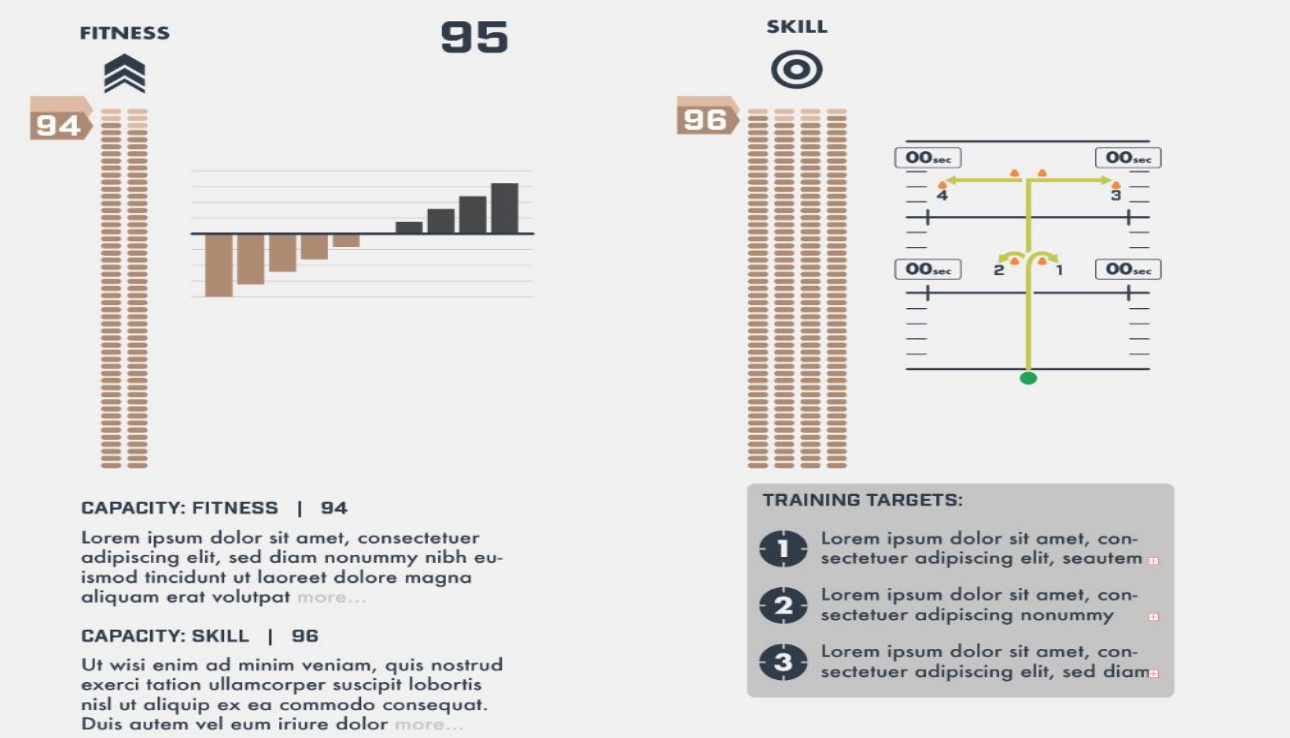
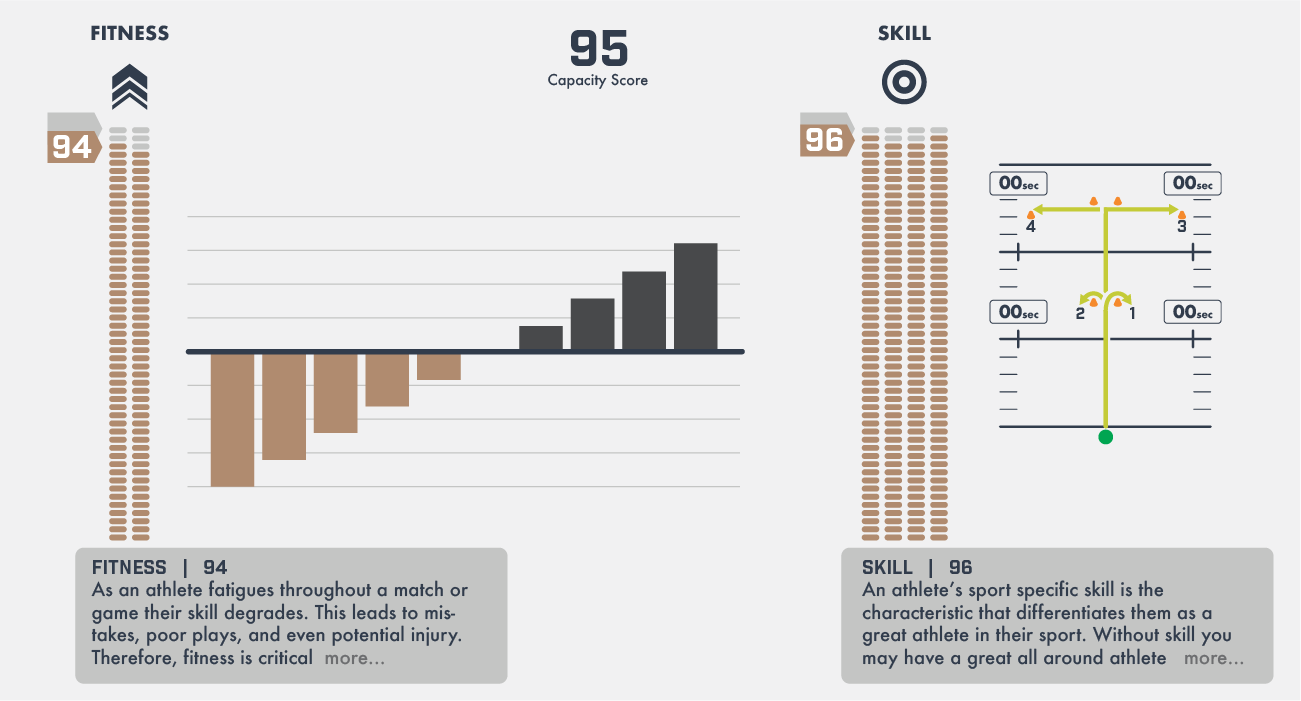
cosemtic-updates
changes to prep for demo to U Utah. all cosmetic, only functional is changing the live tab to not show summary, but its own thing

diff --git a/src/www/css/sass.min.css b/src/www/css/sass.min.css
@@ -1,2 +1,2 @@
-@font-face{font-family:'axia-regular';src:url("fonts/AxiaStencilBlack-Regular.ttf") format("truetype")}.ui.card img{width:150px !important;height:150px !important}.ui.search .results{visibility:hidden !important}html,body{min-width:1100px}body{background-color:#f1f1f1}.left-centered-content,.ui.vertical.menu .item .sidebar-item .sidebar-image{display:flex;justify-content:flex-start;align-items:center}.ui.vertical.menu{width:100% !important;background-color:#f1f1f1;position:sticky;top:200px}.ui.vertical.menu .item:before{width:0}.ui.vertical.menu .item:hover{background-color:#f1f1f1 !important}.ui.vertical.menu .item .sidebar-item{height:45px}.ui.vertical.menu .item .sidebar-item:hover{background-color:rgba(157,163,171,0.101961)}.ui.vertical.menu .item .sidebar-item .sidebar-image{width:45px;height:45px;background-color:#f1f1f1;border-radius:0% 50% 50% 0%}.ui.vertical.menu .item .sidebar-item .sidebar-image .icon{width:35px;margin-right:17.5px}.ui.vertical.menu .sidebar-active .sidebar-item{color:#fff !important;border-radius:100px 30px 30px 100px !important;background-color:#F66733 !important}.centered-content,.stat,.position-card .position-name p{display:flex;justify-content:center;align-items:center}.player-card{width:100px;height:150px;float:left;margin:5px}.player-card .player-image{height:100px;background-size:cover;border-radius:50px;background-position:center;background-repeat:no-repeat;box-shadow:0px 0px 1px 0px}.player-card .player-image:hover{cursor:pointer;box-shadow:0px 0px 0px 3px #F66733}.player-card .first-name{text-align:center;font-size:10px;height:12px}.player-card .last-name{text-align:center;font-weight:bold;height:16px}.player-card .player-number{text-align:center;font-size:10px;height:12px;color:#9da3ab}.stat{height:40px;background-color:#fff;width:40px;font-size:20px;border-radius:50%;float:right;margin-top:60px;color:#323c4c;font-weight:bold;box-shadow:0px 0px 1px 0px}.position-card{width:100px;height:150px;float:left;margin:5px;position:relative}.position-card:hover{cursor:pointer}.position-card:hover .position-name p{box-shadow:0px 0px 0px 3px #F66733}.position-card .position-name{height:100px;font-size:50px;color:#F66733}.position-card .position-name p{margin:0;width:100%;height:100px;position:absolute;align-items:flex-start;border-radius:100px;line-height:100px;z-index:-1;font-size:80%;box-shadow:0px 0px 2px 0px;background:#fff}.position-card .position-desc{text-align:center;font-weight:bold;height:24px;line-height:24px}#grid-page-wrapper>.header{background-color:#F66733;position:sticky;top:0;z-index:9999}.overwrite-semantic-card,.ui.vertical.menu,.ui.vertical.menu .item,.ui.vertical.menu .item .sidebar-item,.ui.card{box-shadow:none !important;border:none !important}.overwrite-semantic-card:first-child,.ui.vertical.menu:first-child,.ui.vertical.menu .item:first-child,.ui.vertical.menu .item .sidebar-item:first-child,.ui.card:first-child{border-radius:0}.ui.card{height:200px;width:100% !important;padding:20px;background-color:#F66733 !important}.ui.card .image{border-radius:20px !important;background-size:cover !important;background-position:center !important;background-repeat:no-repeat !important}.ui.card .content{border:none !important}.ui.card .content .header{color:#fff !important;font-size:30px !important}.ui.card .content .meta{color:#fff !important;font-size:18px !important;padding-top:10px !important}.ui.breadcrumb a.section{color:#fff}.user-card{position:absolute;top:5px;right:15px}.header #logo-card .content{padding:0 20px}.header #logo-card .content .header{margin-top:0}.header .filters{display:flex;justify-content:center;align-items:center}.header .filters #menu .icon{color:#fff}.header .filters #menu .section{padding:3px 7px 1px 7px;border-radius:10px;line-height:1.4}.header .filters #menu .section.active{background:#B94A12}.header .filters .logo img{width:auto;height:65px}.header .user .user-card{padding:10px}.header .user .user-card .sub.header{background:#fff;padding:3px 13px;font-weight:bold;color:#F66733;border-radius:2px}.header .user .user-card .button{border:2px solid #fff;padding:5px 15px;color:#fff;font-weight:bolder;border-radius:10px}.header .user .user-card .button:hover{color:#F66733}.logo img:hover{cursor:pointer}.levels #ordering{float:left}.levels #ordering .sort.icon{color:#fff;font-size:120%}.levels #ordering .reorder-list{text-transform:capitalize;padding:3px 7px 1px 7px !important;border-radius:10px;line-height:1.4}.levels #ordering .reorder-list.hidden{display:none !important}.levels #ordering .reorder-list.active{background:#B94A12}.levels #menu{float:right}.main{padding:9px 15px}.main .player-content{background-size:contain;background-position:top;background-repeat:no-repeat}.explosive_page_wrapper>div{height:100%;width:100%}.player-content .assessment_reports-container{display:flex;justify-content:center}.player-content .assessment_reports-container .assessment_report-toggler{padding:0 15px;cursor:pointer;border-right:2px solid black}.player-content .assessment_reports-container .assessment_report-toggler:last-of-type{border-right:none}.reach_page_wrapper>div{height:100%;width:100%}.player-content .assessment_reports-container{display:flex;justify-content:center}.player-content .assessment_reports-container .assessment_report-toggler{padding:0 15px;cursor:pointer;border-right:2px solid black}.player-content .assessment_reports-container .assessment_report-toggler:last-of-type{border-right:none}.stats-progress-widget{overflow:hidden}.stats-progress-widget .ui.progress .bar{height:2.35em}.stats-progress-widget .chart_title{color:#2E3D49;font-size:20px;font-weight:bolder;line-height:50px;text-align:center;text-transform:uppercase;font-family:"axia-regular",sans-serif}.stats-progress-widget .chart_icon{display:flex;justify-content:center;align-items:center}.stats-progress-widget .chart_icon .icon{height:100%}.stats-progress-widget .chart_wrapper{position:relative;width:100%;height:100%;display:flex;justify-content:center;align-items:center;flex-direction:column}.stats-progress-widget .chart_wrapper .chart_container{position:relative;width:450px;transform:rotate(-90deg)}.stats-progress-widget .progress{margin-bottom:10px}.stats-progress-widget .steps{position:absolute;display:flex;z-index:1;pointer-events:none;bottom:-10px;top:-10px;left:-5px;right:0px}.stats-progress-widget .steps .bar_step{width:2%;margin-right:2%;background:#f1f1f1;height:100%}.stats-progress-widget [data-index]{cursor:pointer}.stats-progress-widget .chart_total{position:absolute;left:0;top:-60px;font-weight:bolder;font-size:25px;background:#444444;color:white;height:40px;display:flex;justify-content:center;align-items:center;width:70px;left:0;z-index:10000;transition:1s all ease;border-radius:3px;transform:rotate(90deg)}.stats-progress-widget .chart_total:after{width:0;height:0;border-top:20px solid transparent;border-left:15px solid #444444;border-bottom:20px solid transparent;content:"";position:absolute;left:calc(100% - 1px)}.body_chart{min-height:600px;max-height:650px;min-height:600px;position:relative}.body_chart .body_stat{position:relative}.body_chart .body_stat:after{content:"";display:block;width:100%;height:2px;position:absolute;border:2px dashed #B4C2D1;opacity:0;-webkit-transition:all 500ms ease-out;-moz-transition:all 500ms ease-out;-o-transition:all 500ms ease-out}.body_chart .body_stat.stat_active:after,.body_chart .body_stat.stat_focus:after{opacity:1;border:2px dashed #F66733;animation:border-pulsate 2.5s infinite}.body_chart .body_stat.stat_left:after{right:-110%;top:77%;transform:rotate(7deg)}.body_chart .body_stat.stat_right:after{right:110%;top:77%;transform:rotate(-7deg)}.body_chart .body_stat.stat_bottom.stat_left:after{top:33%;transform:rotate(-7deg)}.body_chart .body_stat.stat_bottom.stat_right:after{top:33%;transform:rotate(7deg)}.body_chart .body_stat.stat_center:after{top:50%;transform:rotate(0deg)}.body_chart .body_stat.stat_upper.stat_right:after{right:105%;top:106%;transform:rotate(-35deg)}.body_chart .body_stat.stat_upper.stat_left:after{right:-105%;top:106%;transform:rotate(35deg)}.body_chart .title{color:#323c4c;font-size:20px;text-align:center;display:flex;justify-content:center;align-items:top}.body_chart .total{color:#323c4c;font-size:50px;font-weight:bolder;line-height:50px;text-align:center;font-family:"axia-regular",sans-serif}.body_chart .stat_label{position:absolute;font-size:16px;line-height:16px;padding-top:5px;left:0;right:0;margin:auto;color:#2568B0;opacity:0;-webkit-transition:all 500ms ease-out;-moz-transition:all 500ms ease-out;-o-transition:all 500ms ease-out}.body_chart [data-part]{cursor:pointer;animation:border-pulsate 2.5s infinite}.body_chart .stat_value{text-align:center;background:#FEFCFD;border:2px solid #B4C2D1;border-radius:4px;color:#2568B0;font-size:40px;font-weight:bolder;line-height:50px;cursor:pointer;-webkit-transition:all 500ms ease-out;-moz-transition:all 500ms ease-out;-o-transition:all 500ms ease-out}.body_chart .stat_value.stat_active,.body_chart .stat_value.stat_focus{border:2px solid #F66733;color:#F66733;animation:border-pulsate 2.5s infinite}.body_chart .background_body svg{height:100%;width:100%}.body_chart .background_body svg path{transition:all 0.5s}@keyframes border-pulsate{0%{border-color:#F66733}50%{border-color:#F66733}75%{border-color:#B4C2D1}100%{border-color:#F66733}}.ui.card.text-card{border:1px solid transparent !important;border-radius:8px;height:100%;padding:20px;width:100%}.ui.card.text-card .header{border-bottom:1px solid #323c4c;color:#323c4c;font-family:"axia-regular",sans-serif;font-size:18px;font-weight:bold;margin-bottom:10px;padding-bottom:5px;text-transform:uppercase}.ui.card.text-card .header--score{border-left:1px solid #323c4c;color:#286aaf;margin-left:10px;padding-left:10px}.ui.card.text-card .description{color:#323c4c;font-size:16px;font-weight:bold;line-height:1.4}.strength_card{grid-area:"strength_card"}.details_card{grid-area:"details_card"}.power_card{grid-area:"power_card"}.file-downloader{position:absolute;bottom:0;right:20px;margin:10px}.file-downloader .export-view-button{font-size:10px;border:2px solid #fff;padding:5px;color:#fff;font-weight:bolder;border-radius:0 10px 10px 0;display:block;position:relative;border-left:none}.file-downloader .export-view-button:hover{background:#B94A12}.file-downloader .export-view-button .button-content{display:flex;flex-direction:column;justify-content:center;text-align:center;min-width:170px;border-left-color:transparent}.file-downloader .export-view-button .button-content .title{font-size:10px;line-height:10px}.file-downloader .export-view-button .button-content .subtitle{line-height:10px}.file-downloader .export-view-button .button-content .name{background:#c5c5c5;color:#313c4c;margin-top:5px;border-radius:0 5px 5px 0;text-transform:uppercase}.file-downloader .export-view-button .button-content .icon{position:absolute;height:calc(100% + 10px);right:calc(100% + 0px);top:-5px}.forty_chart{min-height:600px;max-height:650px;min-height:600px;position:relative}.forty_chart .forty_stat{position:relative}.forty_chart .forty_stat:after{content:"";display:block;width:100%;height:2px;position:absolute;border:2px dashed #B4C2D1;opacity:0;-webkit-transition:all 500ms ease-out;-moz-transition:all 500ms ease-out;-o-transition:all 500ms ease-out}.forty_chart .forty_stat.stat_active:after,.forty_chart .forty_stat.stat_focus:after{opacity:1;border:2px dashed #F66733;animation:border-pulsate 2.5s infinite}.forty_chart .forty_stat.stat_right:after{right:110%;top:77%;transform:rotate(-7deg)}.forty_chart .forty_stat.stat_bottom.stat_left:after{top:33%;transform:rotate(-7deg)}.forty_chart .forty_stat.stat_bottom.stat_right:after{top:33%;transform:rotate(7deg)}.forty_chart .forty_stat.stat_center:after{top:50%;transform:rotate(0deg)}.forty_chart .forty_stat.stat_upper.stat_right:after{right:105%;top:106%;transform:rotate(-35deg)}.forty_chart .forty_stat.stat_upper.stat_left:after{right:-105%;top:106%;transform:rotate(35deg)}.forty_chart .title{color:#323c4c;font-size:20px;text-align:center;display:flex;justify-content:center;align-items:top}.forty_chart .total{color:#323c4c;font-size:50px;font-weight:bolder;line-height:50px;text-align:center;font-family:"axia-regular",sans-serif}.forty_chart .stat_label{position:absolute;font-size:16px;line-height:16px;padding-top:5px;left:0;right:0;margin:auto;color:#C4CB38;opacity:0;-webkit-transition:all 500ms ease-out;-moz-transition:all 500ms ease-out;-o-transition:all 500ms ease-out}.forty_chart [data-part]{cursor:pointer;animation:border-pulsate 2.5s infinite}.forty_chart .stat_value{text-align:center;background:#FEFCFD;border:2px solid #C4CB38;border-radius:4px;color:#C4CB38;font-size:40px;font-weight:bolder;line-height:50px;margin:.5px;cursor:pointer;-webkit-transition:all 500ms ease-out;-moz-transition:all 500ms ease-out;-o-transition:all 500ms ease-out}.forty_chart .stat_value.stat_active,.forty_chart .stat_value.stat_focus{border:2px solid #F66733;color:#F66733;animation:border-pulsate 2.5s infinite}.forty_chart .background_body svg{height:100%;width:100%}.forty_chart .background_body svg path{transition:all 0.5s}@keyframes border-pulsate{0%{border-color:#F66733}50%{border-color:#F66733}75%{border-color:#B4C2D1}100%{border-color:#F66733}}
+@font-face{font-family:'axia-regular';src:url("fonts/AxiaStencilBlack-Regular.ttf") format("truetype")}.ui.card img{width:150px !important;height:150px !important}.ui.search .results{visibility:hidden !important}html,body{min-width:1100px}body{background-color:#f1f1f1}.left-centered-content,.ui.vertical.menu .item .sidebar-item .sidebar-image{display:flex;justify-content:flex-start;align-items:center}.ui.vertical.menu{width:100% !important;background-color:#f1f1f1;position:sticky;top:200px}.ui.vertical.menu .item:before{width:0}.ui.vertical.menu .item:hover{background-color:#f1f1f1 !important}.ui.vertical.menu .item .sidebar-item{height:45px}.ui.vertical.menu .item .sidebar-item:hover{background-color:rgba(157,163,171,0.101961)}.ui.vertical.menu .item .sidebar-item .sidebar-image{width:45px;height:45px;background-color:#f1f1f1;border-radius:0% 50% 50% 0%}.ui.vertical.menu .item .sidebar-item .sidebar-image .icon{width:35px;margin-right:17.5px}.ui.vertical.menu .sidebar-active .sidebar-item{color:#fff !important;border-radius:100px 30px 30px 100px !important;background-color:#c00 !important}.centered-content,.stat,.position-card .position-name p{display:flex;justify-content:center;align-items:center}.player-card{width:100px;height:150px;float:left;margin:5px}.player-card .player-image{height:100px;background-size:cover;border-radius:50px;background-position:center;background-repeat:no-repeat;box-shadow:0px 0px 1px 0px}.player-card .player-image:hover{cursor:pointer;box-shadow:0px 0px 0px 3px #c00}.player-card .first-name{text-align:center;font-size:10px;height:12px}.player-card .last-name{text-align:center;font-weight:bold;height:16px}.player-card .player-number{text-align:center;font-size:10px;height:12px;color:#9da3ab}.stat{height:40px;background-color:#fff;width:40px;font-size:20px;border-radius:50%;float:right;margin-top:60px;color:#323c4c;font-weight:bold;box-shadow:0px 0px 1px 0px}.position-card{width:100px;height:150px;float:left;margin:5px;position:relative}.position-card:hover{cursor:pointer}.position-card:hover .position-name p{box-shadow:0px 0px 0px 3px #c00}.position-card .position-name{height:100px;font-size:50px;color:#c00}.position-card .position-name p{margin:0;width:100%;height:100px;position:absolute;align-items:flex-start;border-radius:100px;line-height:100px;z-index:-1;font-size:80%;box-shadow:0px 0px 2px 0px;background:#fff}.position-card .position-desc{text-align:center;font-weight:bold;height:24px;line-height:24px}#grid-page-wrapper>.header{background-color:#c00;position:sticky;top:0;z-index:9999}.overwrite-semantic-card,.ui.vertical.menu,.ui.vertical.menu .item,.ui.vertical.menu .item .sidebar-item,.ui.card{box-shadow:none !important;border:none !important}.overwrite-semantic-card:first-child,.ui.vertical.menu:first-child,.ui.vertical.menu .item:first-child,.ui.vertical.menu .item .sidebar-item:first-child,.ui.card:first-child{border-radius:0}.ui.card{height:200px;width:100% !important;padding:20px;background-color:#c00 !important}.ui.card .image{border-radius:20px !important;background-size:cover !important;background-position:center !important;background-repeat:no-repeat !important}.ui.card .content{border:none !important}.ui.card .content .header{color:#fff !important;font-size:30px !important}.ui.card .content .meta{color:#fff !important;font-size:18px !important;padding-top:10px !important}.ui.breadcrumb a.section{color:#fff}.user-card{position:absolute;top:5px;right:15px}.header #logo-card .content{padding:0 20px}.header #logo-card .content .header{margin-top:0}.header .filters{display:flex;justify-content:center;align-items:center}.header .filters #menu .icon{color:#fff}.header .filters #menu .section{padding:3px 7px 1px 7px;border-radius:10px;line-height:1.4}.header .filters #menu .section.active{background:#c00}.header .filters .logo img{width:auto;height:65px}.header .user .user-card{padding:10px}.header .user .user-card .sub.header{background:#fff;padding:3px 13px;font-weight:bold;color:#c00;border-radius:2px}.header .user .user-card .button{border:2px solid #fff;padding:5px 15px;color:#fff;font-weight:bolder;border-radius:10px}.header .user .user-card .button:hover{color:#c00}.logo img:hover{cursor:pointer}.levels #ordering{float:left}.levels #ordering .sort.icon{color:#fff;font-size:120%}.levels #ordering .reorder-list{text-transform:capitalize;padding:3px 7px 1px 7px !important;border-radius:10px;line-height:1.4}.levels #ordering .reorder-list.hidden{display:none !important}.levels #ordering .reorder-list.active{background:#c00}.levels #menu{float:right}.main{padding:9px 15px}.main .player-content{background-size:contain;background-position:top;background-repeat:no-repeat}.explosive_page_wrapper>div{height:100%;width:100%}.player-content .assessment_reports-container{display:flex;justify-content:center}.player-content .assessment_reports-container .assessment_report-toggler{padding:0 15px;cursor:pointer;border-right:2px solid black}.player-content .assessment_reports-container .assessment_report-toggler:last-of-type{border-right:none}.reach_page_wrapper>div{height:100%;width:100%}.player-content .assessment_reports-container{display:flex;justify-content:center}.player-content .assessment_reports-container .assessment_report-toggler{padding:0 15px;cursor:pointer;border-right:2px solid black}.player-content .assessment_reports-container .assessment_report-toggler:last-of-type{border-right:none}.stats-progress-widget{overflow:hidden}.stats-progress-widget .ui.progress .bar{height:2.35em}.stats-progress-widget .chart_title{color:#2E3D49;font-size:20px;font-weight:bolder;line-height:50px;text-align:center;text-transform:uppercase;font-family:"axia-regular",sans-serif}.stats-progress-widget .chart_icon{display:flex;justify-content:center;align-items:center}.stats-progress-widget .chart_icon .icon{height:100%}.stats-progress-widget .chart_wrapper{position:relative;width:100%;height:100%;display:flex;justify-content:center;align-items:center;flex-direction:column}.stats-progress-widget .chart_wrapper .chart_container{position:relative;width:450px;transform:rotate(-90deg)}.stats-progress-widget .progress{margin-bottom:10px}.stats-progress-widget .steps{position:absolute;display:flex;z-index:1;pointer-events:none;bottom:-10px;top:-10px;left:-5px;right:0px}.stats-progress-widget .steps .bar_step{width:2%;margin-right:2%;background:#f1f1f1;height:100%}.stats-progress-widget [data-index]{cursor:pointer}.stats-progress-widget .chart_total{position:absolute;left:0;top:-60px;font-weight:bolder;font-size:25px;background:#444444;color:white;height:40px;display:flex;justify-content:center;align-items:center;width:70px;left:0;z-index:10000;transition:1s all ease;border-radius:3px;transform:rotate(90deg)}.stats-progress-widget .chart_total:after{width:0;height:0;border-top:20px solid transparent;border-left:15px solid #444444;border-bottom:20px solid transparent;content:"";position:absolute;left:calc(100% - 1px)}.body_chart{min-height:600px;max-height:650px;min-height:600px;position:relative}.body_chart .body_stat{position:relative}.body_chart .body_stat:after{content:"";display:block;width:100%;height:2px;position:absolute;border:2px dashed #B4C2D1;opacity:0;-webkit-transition:all 500ms ease-out;-moz-transition:all 500ms ease-out;-o-transition:all 500ms ease-out}.body_chart .body_stat.stat_active:after,.body_chart .body_stat.stat_focus:after{opacity:1;border:2px dashed #c00;animation:border-pulsate 2.5s infinite}.body_chart .body_stat.stat_left:after{right:-110%;top:77%;transform:rotate(7deg)}.body_chart .body_stat.stat_right:after{right:110%;top:77%;transform:rotate(-7deg)}.body_chart .body_stat.stat_bottom.stat_left:after{top:33%;transform:rotate(-7deg)}.body_chart .body_stat.stat_bottom.stat_right:after{top:33%;transform:rotate(7deg)}.body_chart .body_stat.stat_center:after{top:50%;transform:rotate(0deg)}.body_chart .body_stat.stat_upper.stat_right:after{right:105%;top:106%;transform:rotate(-35deg)}.body_chart .body_stat.stat_upper.stat_left:after{right:-105%;top:106%;transform:rotate(35deg)}.body_chart .title{color:#323c4c;font-size:20px;text-align:center;display:flex;justify-content:center;align-items:top}.body_chart .total{color:#323c4c;font-size:50px;font-weight:bolder;line-height:50px;text-align:center;font-family:"axia-regular",sans-serif}.body_chart .stat_label{position:absolute;font-size:16px;line-height:16px;padding-top:5px;left:0;right:0;margin:auto;color:#2568B0;opacity:0;-webkit-transition:all 500ms ease-out;-moz-transition:all 500ms ease-out;-o-transition:all 500ms ease-out}.body_chart [data-part]{cursor:pointer;animation:border-pulsate 2.5s infinite}.body_chart .stat_value{text-align:center;background:#FEFCFD;border:2px solid #B4C2D1;border-radius:4px;color:#2568B0;font-size:40px;font-weight:bolder;line-height:50px;cursor:pointer;-webkit-transition:all 500ms ease-out;-moz-transition:all 500ms ease-out;-o-transition:all 500ms ease-out}.body_chart .stat_value.stat_active,.body_chart .stat_value.stat_focus{border:2px solid #c00;color:#c00;animation:border-pulsate 2.5s infinite}.body_chart .background_body svg{height:100%;width:100%}.body_chart .background_body svg path{transition:all 0.5s}@keyframes border-pulsate{0%{border-color:#c00}50%{border-color:#c00}75%{border-color:#B4C2D1}100%{border-color:#c00}}.ui.card.text-card{border:1px solid transparent !important;border-radius:8px;height:100%;padding:20px;width:100%}.ui.card.text-card .header{border-bottom:1px solid #323c4c;color:#323c4c;font-family:"axia-regular",sans-serif;font-size:18px;font-weight:bold;margin-bottom:10px;padding-bottom:5px;text-transform:uppercase}.ui.card.text-card .header--score{border-left:1px solid #323c4c;color:#286aaf;margin-left:10px;padding-left:10px}.ui.card.text-card .description{color:#323c4c;font-size:16px;font-weight:bold;line-height:1.4}.strength_card{grid-area:"strength_card"}.details_card{grid-area:"details_card"}.power_card{grid-area:"power_card"}.file-downloader{position:absolute;bottom:0;right:20px;margin:10px}.file-downloader .export-view-button{font-size:10px;border:2px solid #fff;padding:5px;color:#fff;font-weight:bolder;border-radius:0 10px 10px 0;display:block;position:relative;border-left:none}.file-downloader .export-view-button:hover{background:#c00}.file-downloader .export-view-button .button-content{display:flex;flex-direction:column;justify-content:center;text-align:center;min-width:170px;border-left-color:transparent}.file-downloader .export-view-button .button-content .title{font-size:10px;line-height:10px}.file-downloader .export-view-button .button-content .subtitle{line-height:10px}.file-downloader .export-view-button .button-content .name{background:#c5c5c5;color:#313c4c;margin-top:5px;border-radius:0 5px 5px 0;text-transform:uppercase}.file-downloader .export-view-button .button-content .icon{position:absolute;height:calc(100% + 10px);right:calc(100% + 0px);top:-5px}.forty_chart{min-height:600px;max-height:650px;min-height:600px;position:relative}.forty_chart .forty_stat{position:relative}.forty_chart .forty_stat:after{content:"";display:block;width:100%;height:2px;position:absolute;border:2px dashed #B4C2D1;opacity:0;-webkit-transition:all 500ms ease-out;-moz-transition:all 500ms ease-out;-o-transition:all 500ms ease-out}.forty_chart .forty_stat.stat_active:after,.forty_chart .forty_stat.stat_focus:after{opacity:1;border:2px dashed #c00;animation:border-pulsate 2.5s infinite}.forty_chart .forty_stat.stat_right:after{right:110%;top:77%;transform:rotate(-7deg)}.forty_chart .forty_stat.stat_bottom.stat_left:after{top:33%;transform:rotate(-7deg)}.forty_chart .forty_stat.stat_bottom.stat_right:after{top:33%;transform:rotate(7deg)}.forty_chart .forty_stat.stat_center:after{top:50%;transform:rotate(0deg)}.forty_chart .forty_stat.stat_upper.stat_right:after{right:105%;top:106%;transform:rotate(-35deg)}.forty_chart .forty_stat.stat_upper.stat_left:after{right:-105%;top:106%;transform:rotate(35deg)}.forty_chart .title{color:#323c4c;font-size:20px;text-align:center;display:flex;justify-content:center;align-items:top}.forty_chart .total{color:#323c4c;font-size:50px;font-weight:bolder;line-height:50px;text-align:center;font-family:"axia-regular",sans-serif}.forty_chart .stat_label{position:absolute;font-size:16px;line-height:16px;padding-top:5px;left:0;right:0;margin:auto;color:#C4CB38;opacity:0;-webkit-transition:all 500ms ease-out;-moz-transition:all 500ms ease-out;-o-transition:all 500ms ease-out}.forty_chart [data-part]{cursor:pointer;animation:border-pulsate 2.5s infinite}.forty_chart .stat_value{text-align:center;background:#FEFCFD;border:2px solid #C4CB38;border-radius:4px;color:#C4CB38;font-size:40px;font-weight:bolder;line-height:50px;margin:.5px;cursor:pointer;-webkit-transition:all 500ms ease-out;-moz-transition:all 500ms ease-out;-o-transition:all 500ms ease-out}.forty_chart .stat_value.stat_active,.forty_chart .stat_value.stat_focus{border:2px solid #c00;color:#c00;animation:border-pulsate 2.5s infinite}.forty_chart .background_body svg{height:100%;width:100%}.forty_chart .background_body svg path{transition:all 0.5s}@keyframes border-pulsate{0%{border-color:#c00}50%{border-color:#c00}75%{border-color:#B4C2D1}100%{border-color:#c00}}
 

diff --git a/src/styles/modules/_config.scss b/src/styles/modules/_config.scss
@@ -1,6 +1,6 @@
 // Colors
-$main-team-color: #F66733;
-$active-background: #B94A12;
+$main-team-color: #CC0000;
+$active-background: #CC0000;
 $active-text: white;
 $text-main-color: #323c4c;
 $text-light-color: #9da3ab;
